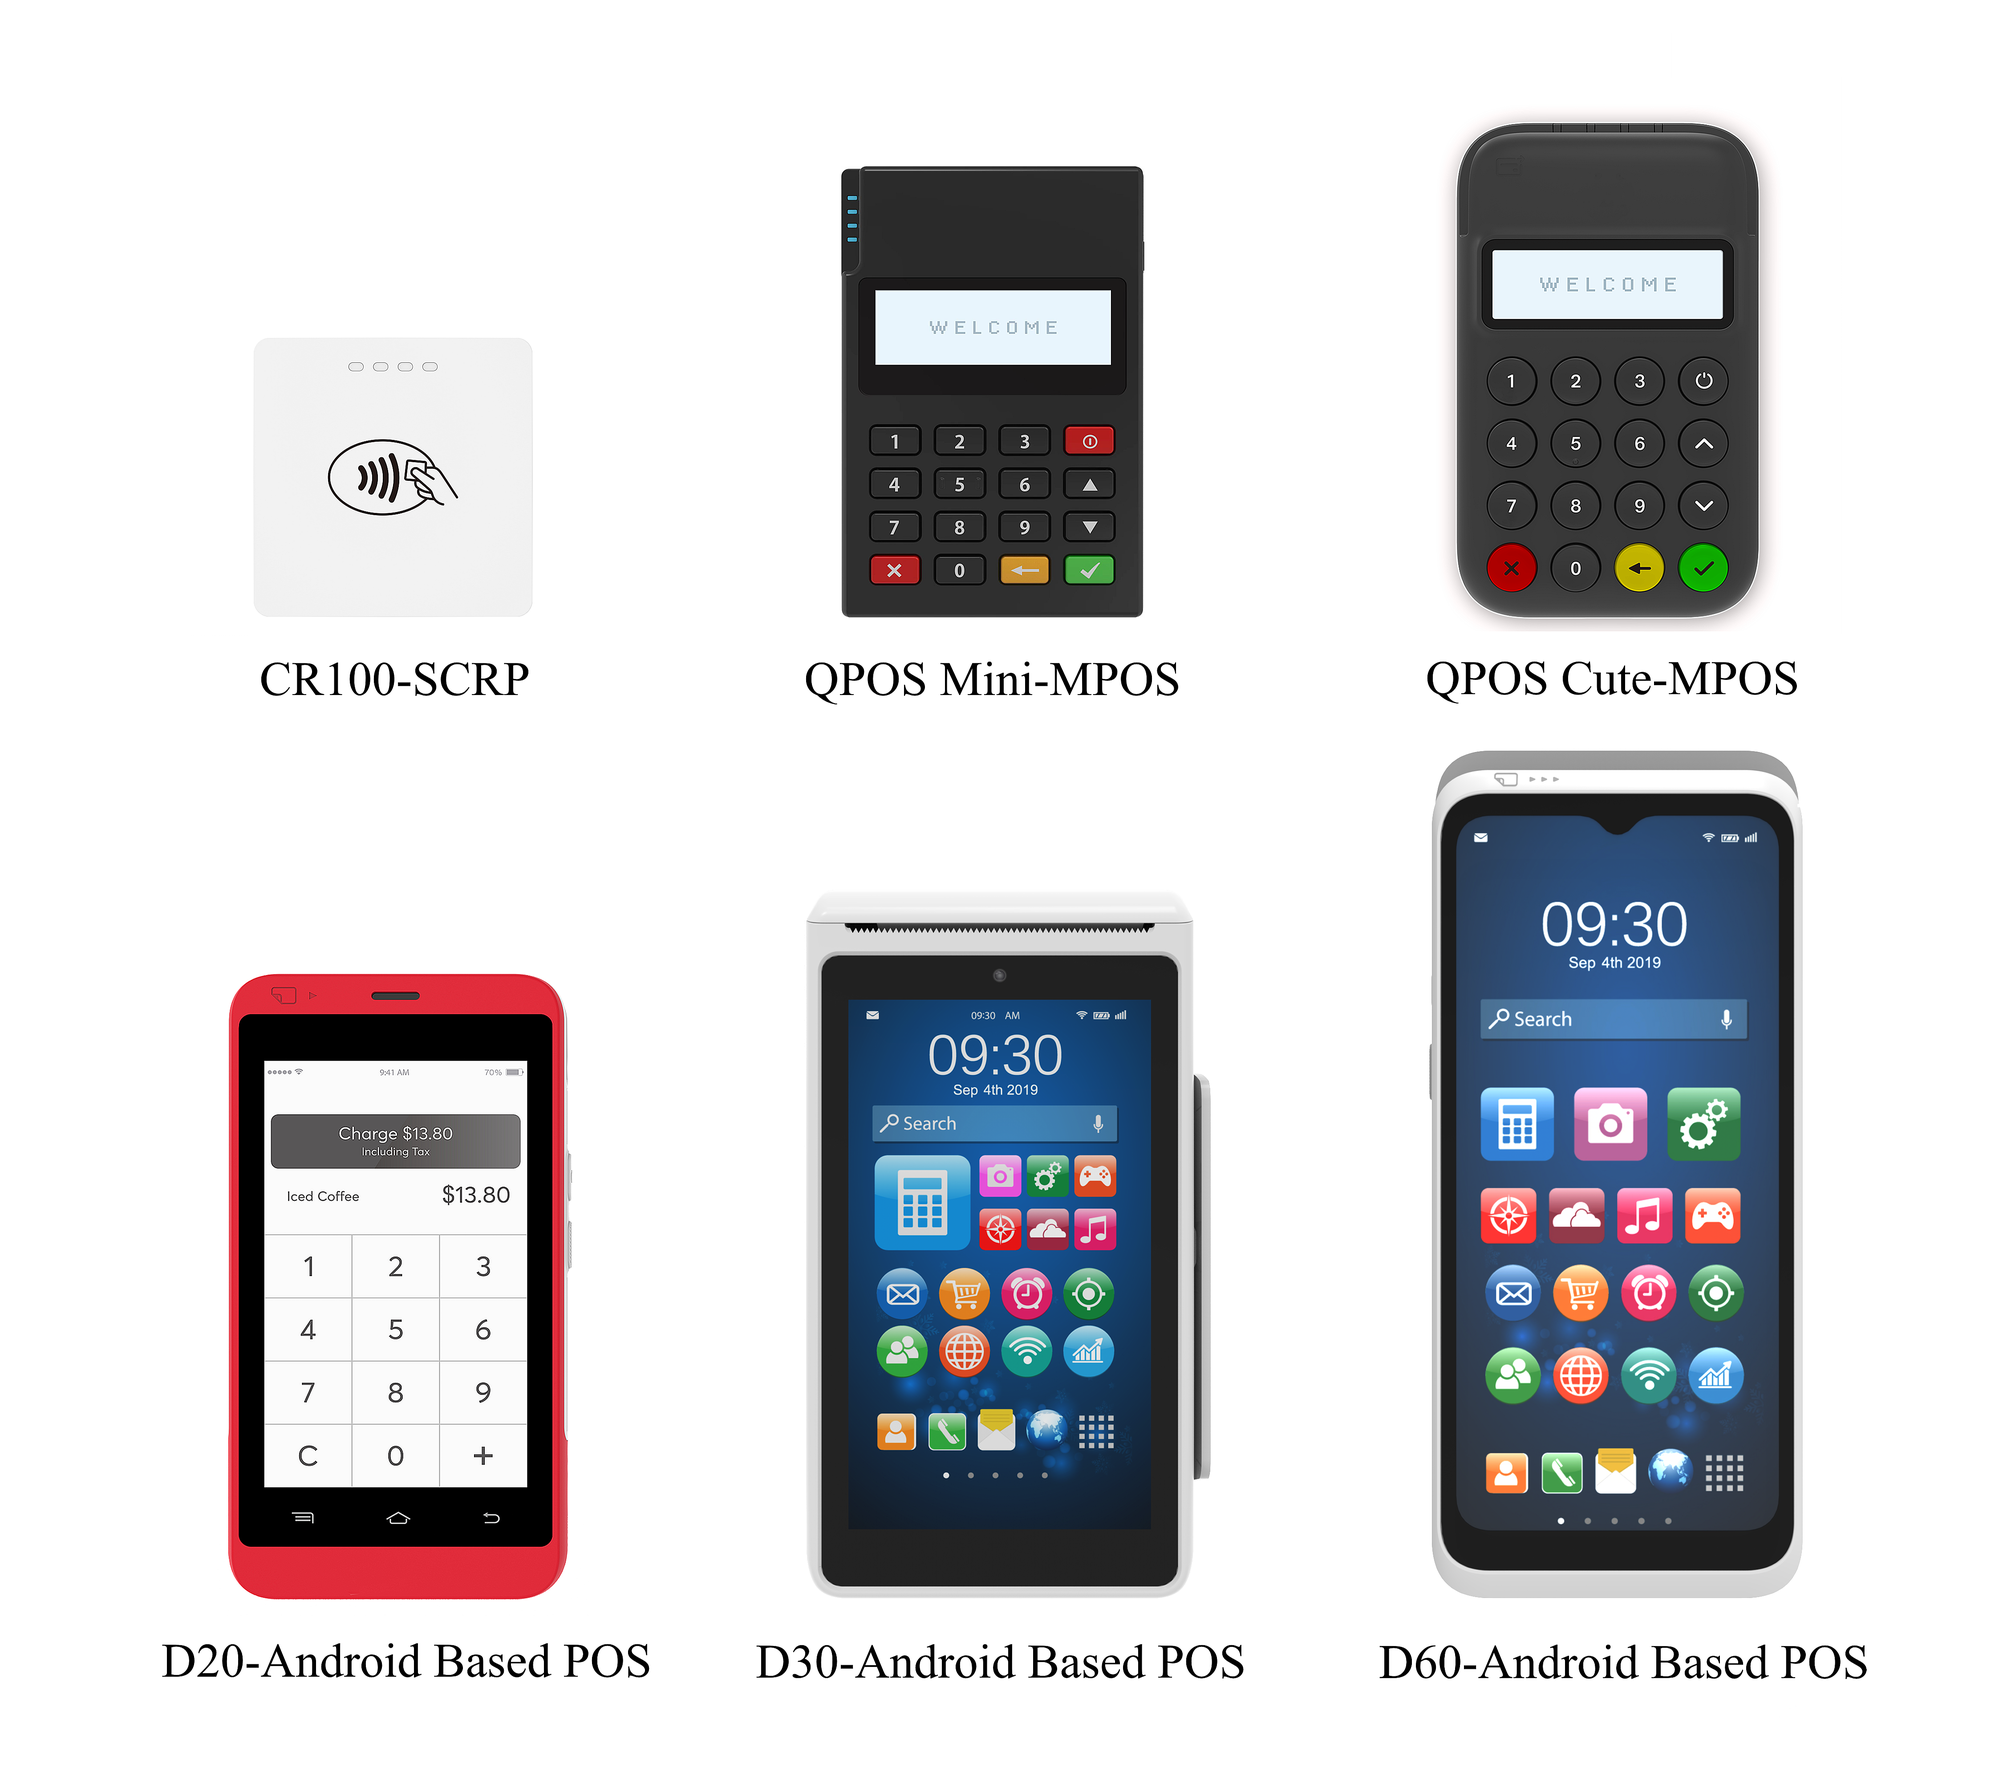
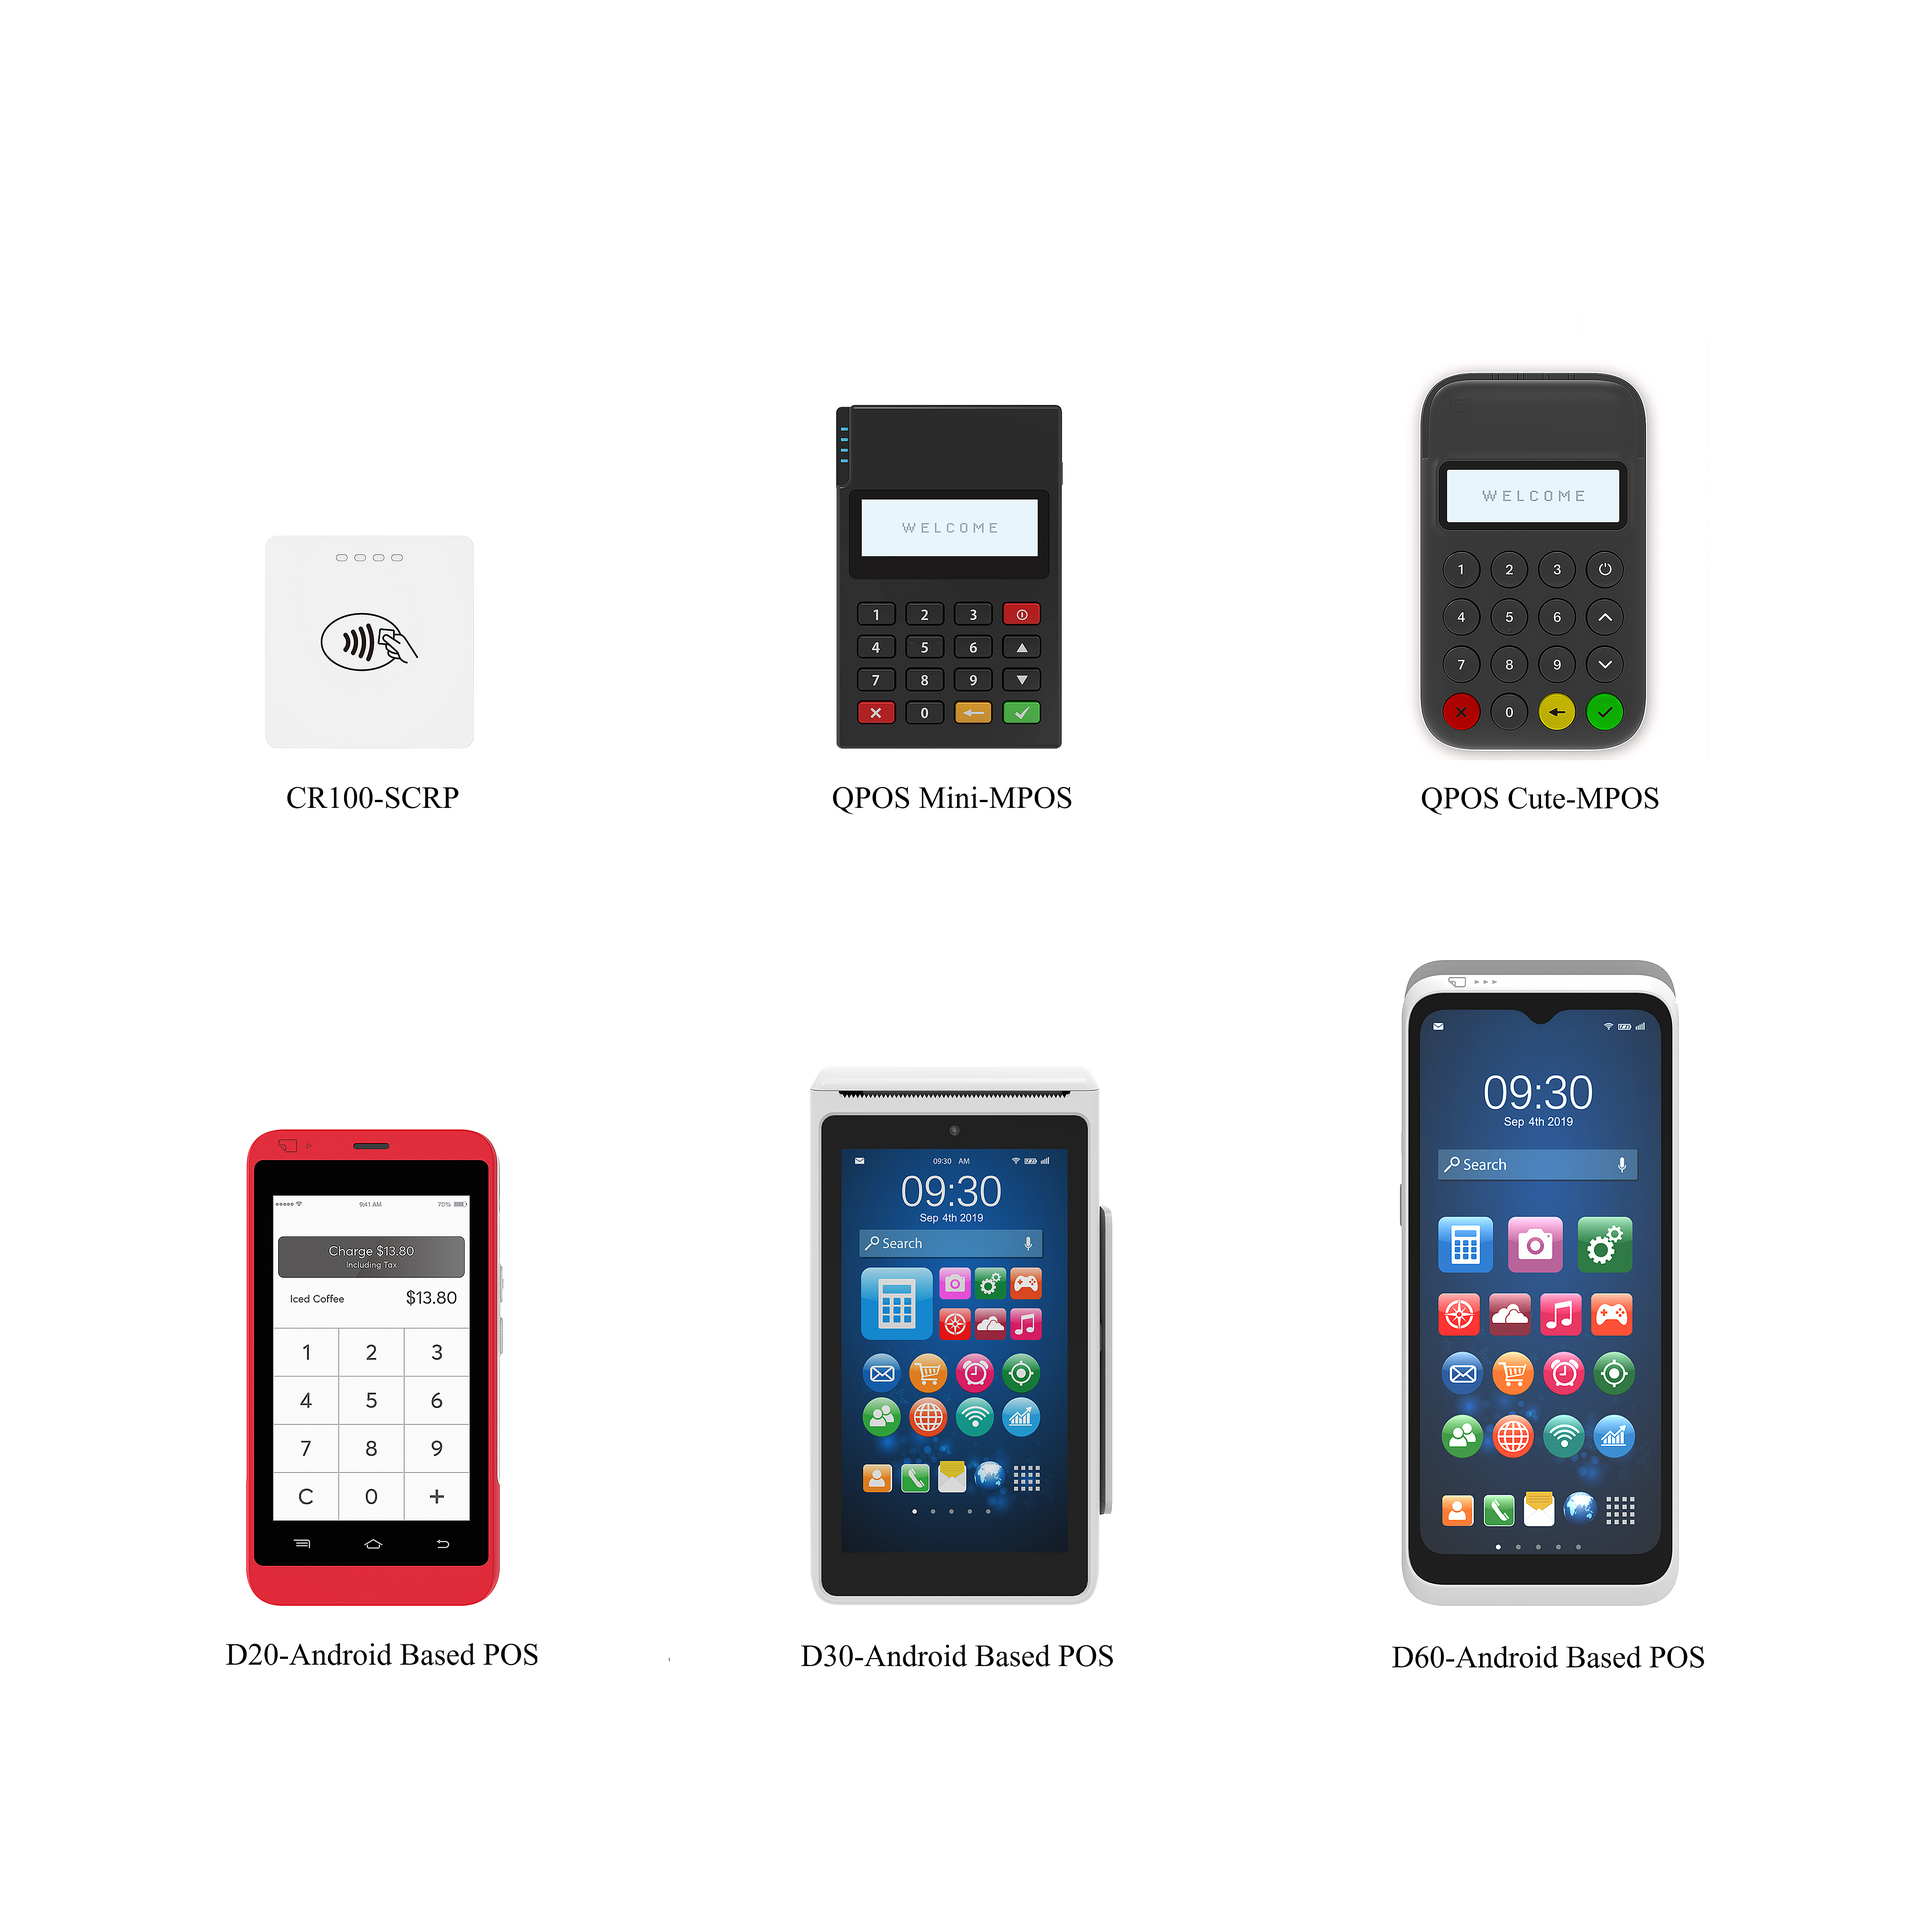
Update 2 files
- /docs/_images/拼图4.png
- /docs/manual.md

diff --git a/docs/manual.md b/docs/manual.md
@@ -1,6 +1,7 @@
 ## Introduction
 
-<iframe width="800" height="800" src="./products/productsGallery.html" frameborder="0"  scrolling="no" allowfullscreen></iframe>
+<!-- <iframe width="800" height="800" src="./products/productsGallery.html" frameborder="0"  scrolling="no" allowfullscreen></iframe> -->
+![1-1](./_images/拼图4.png)
 
 CR100 and QPOS Cute allows you to make secure payments anytime and anywhere with Smartphones and Tablets.
 It can easily be integrated with Apps running on iOS, Android, Windows and Linux.
